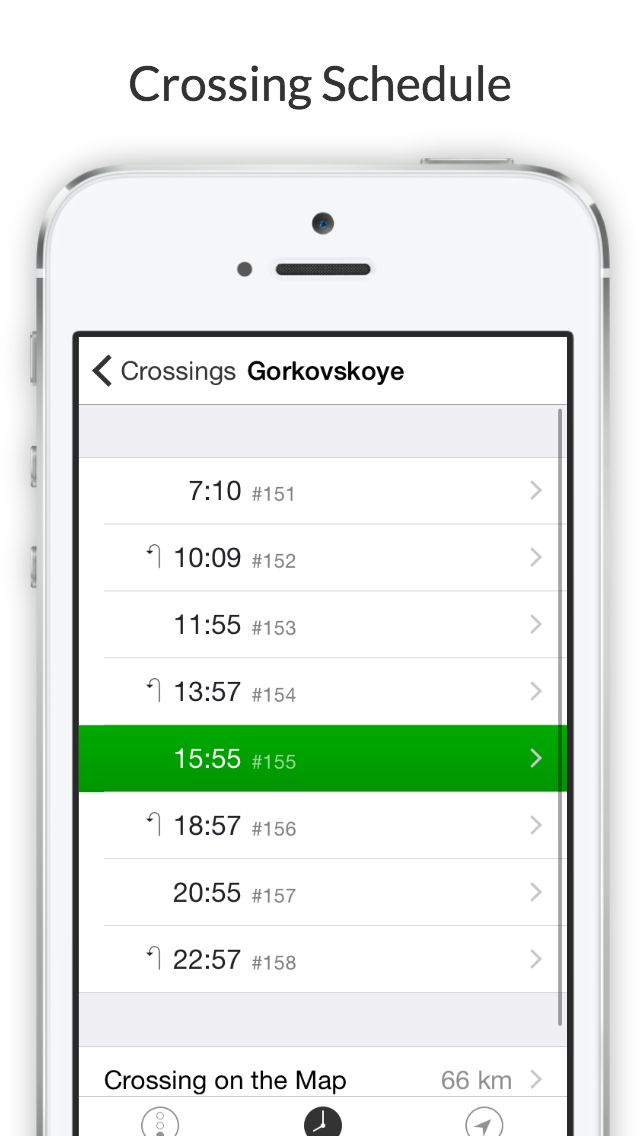
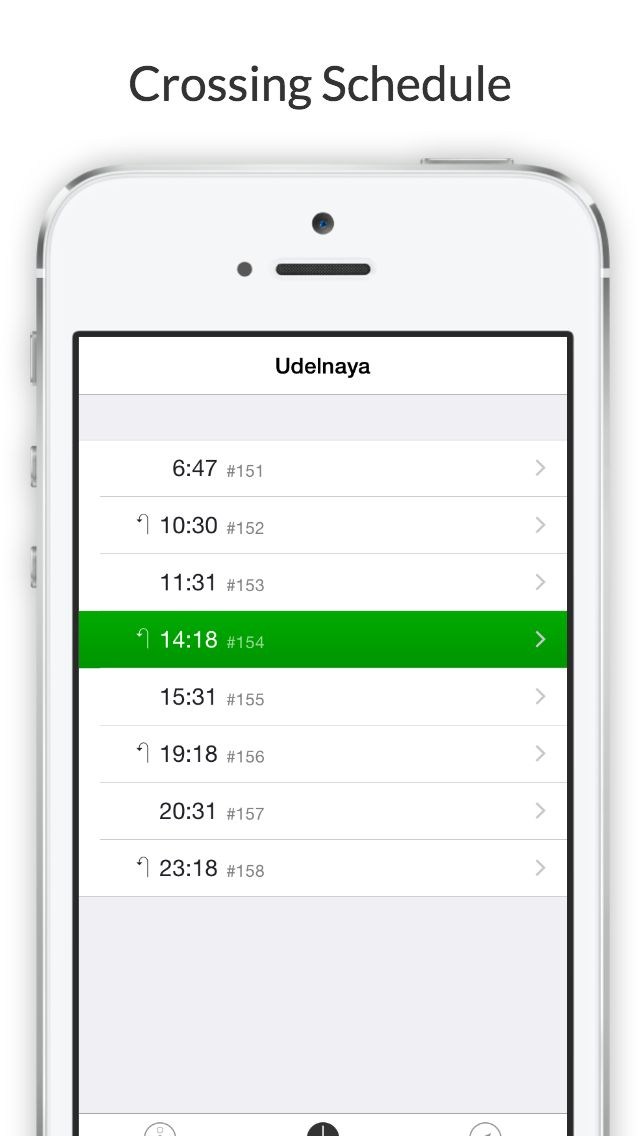
update title font and screenshots

diff --git a/app/controllers/status_view_controller.rb b/app/controllers/status_view_controller.rb
@@ -35,10 +35,8 @@ class StatusViewController < UIViewController
 
     titleLabel = UILabel.alloc.initWithFrame(CGRectZero)
     titleLabel.text = "main.title".l
-    titleLabel.font = UIFont.fontWithName('MarkerFelt-Thin', size: 17)
-    titleLabel.textColor = UIColor.colorWithWhite 0.50, alpha:1.00
-    # titleLabel.shadowColor = UIColor.colorWithWhite 0.85, alpha:1.00
-    # titleLabel.shadowOffset = CGSizeMake(1, 1)
+    titleLabel.font = UIFont.fontWithName('HelveticaNeue-BoldItalic', size: 17)
+    titleLabel.textColor = UIColor.grayShade 0.2
     titleLabel.sizeToFit
 
     navigationItem.titleView = titleLabel

diff --git a/app/models/globals.rb b/app/models/globals.rb
@@ -11,7 +11,7 @@ GAD_TESTING_IPAD_ID = 'e993311bb857d82d1b2df4a83f03101e'
 FLURRY_TOKEN = 'SM6YJJ3V9TP8XPFQJWTM'
 SIMULATOR = UIDevice.currentDevice.model == "iPhone Simulator"
 TRACKING = true
-ADVERTISEMENT = true
+ADVERTISEMENT = false
 TABLE_VIEW_HEADER_HEIGHT = 44
 
 NXDefaultCellIDClosestCrossingChanged = "NXDefaultCellIDClosestCrossingChangedNotification"

diff --git a/app/util/extensions_core.rb b/app/util/extensions_core.rb
@@ -23,8 +23,8 @@ class Time
       hours = nowParts.hour
       minutes = nowParts.minute
       hours * 60 + minutes
-      
       # 18*60 + 47
+      # 13*60 + 47
     end
   
     def time_till_full_minute
